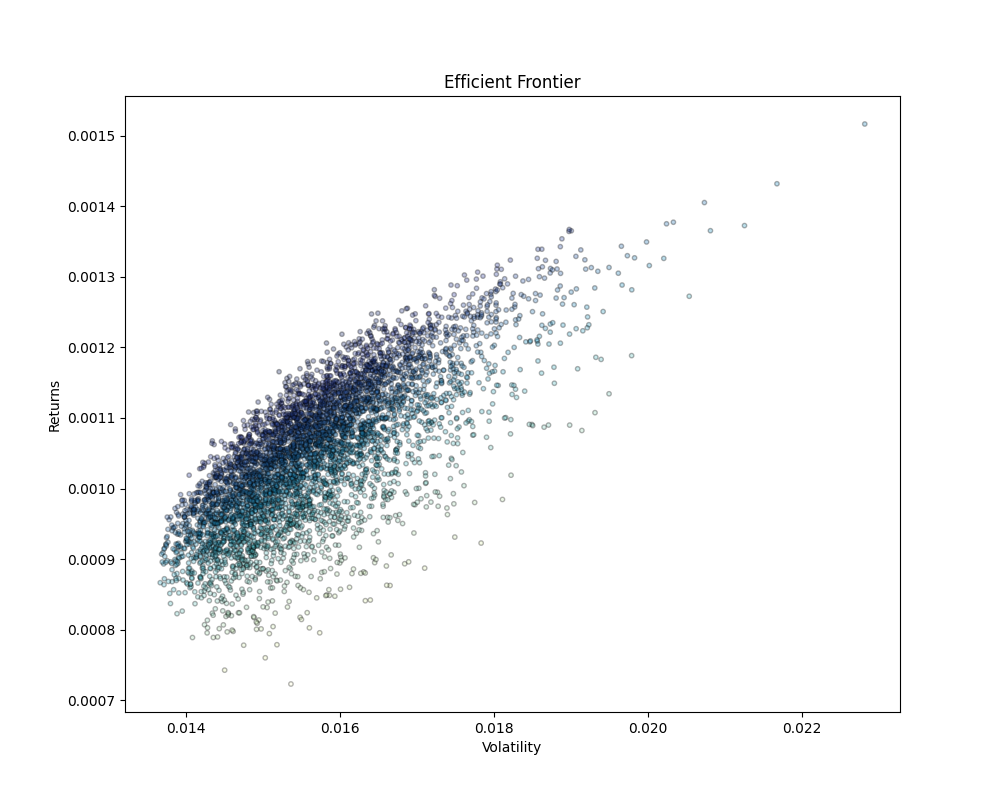
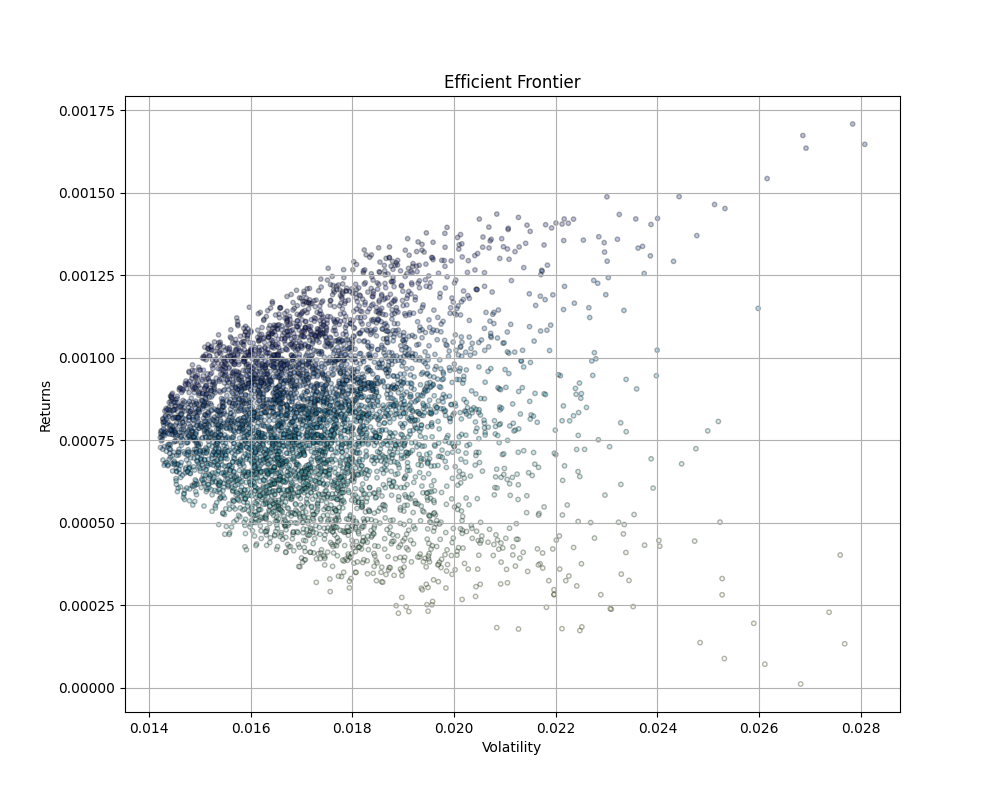
Editting README.md

diff --git a/portfolio/portfolio.py b/portfolio/portfolio.py
@@ -126,11 +126,13 @@ class Portfolio:
         ax.set_xlabel('Volatility')
         ax.set_ylabel('Returns')
         ax.set_title('Efficient Frontier')
+        plt.grid()
         # plt.colorbar(label='Sharpe Ratio')
         plt.show()
 
 
 if __name__ == '__main__':
-    p = Portfolio(['TSLA'])
-    # p.plot_correlation()
-    print(p.calc_sharpe())
+    p = Portfolio(['TSLA', 'AAPL', "AMZN", 'GS', 'BBBY'])
+    # # p.plot_correlation()
+    # print(p.calc_sharpe())
+    p.plot_efficient_frontier()

diff --git a/README.md b/README.md
@@ -1,38 +1,33 @@
-### Black-Scholes PDE
+# Options Class
 
-- Black-Scholes PDE
+### Black Scholes Formulas
+|                   | Formula                                                                                                                                  |
+|-------------------|------------------------------------------------------------------------------------------------------------------------------------------|
+| Black Scholes PDE | $$ \frac{\partial C}{\partial t} + \frac{1}{2}\sigma^2S^2\frac{\partial^2 C}{\partial S^2} + rS\frac{\partial C}{\partial S} - rC = 0 $$ |
+| Call Price        | $$ C = S N\left(d_1\right) - K e^{-rT} N\left(d_2\right)$$                                                                               |
+| Put Price         | $$ P = K e^{-rT} N\left(-d_2\right) - S N\left(-d_1\right) $$                                                                            |
+| d1                | $$ d_1 = \frac{\ln\left(\frac{S}{K}\right) + \left(r + {\sigma}^2/2\right)(T-t)}{\sigma\sqrt{T-t}}$$                                     |
+| d2                | $$ d_2 = d_1 - \sigma \<br/>qrt{T-t} $$                                                                                                  |
+| Delta Call        | $$\Delta_c = \frac{\partial C}{\partial S} = N\left(d_1\right)$$                                                                         |
+| Delta Put         | Text                                                                                                                                     |
+| Gamma             | Text                                                                                                                                     |
+| Vega              | Text                                                                                                                                     |
+| Theta Call        | Text                                                                                                                                     |
+| Theta Put         | Text                                                                                                                                     |
 
-$$
-\frac{\partial C}{\partial t} + \frac{1}{2}\sigma^2S^2\frac{\partial^2 C}{\partial S^2} + rS\frac{\partial C}{\partial S} - rC = 0
-$$
+# Figures
 
-- Call Price
-
-$$
-C = S N\left(d_1\right) - K e^{-rT} N\left(d_2\right)
-$$
-
-- Put Price
-
-$$
-P = K e^{-rT} N\left(-d_2\right) - S N\left(-d_1\right)
-$$
-
-where
-
-$$
-d_1 = \frac{\ln\left(\frac{S}{K}\right) + \left(r + {\sigma}^2/2\right)(T-t)}{\sigma\sqrt{T-t}},
-$$
-
-$$
-d_2 = d_1 - \sigma \sqrt{T-t}.
-$$
-
-### Implied Volatility
+## Implied Volatility
 | ![](figures/options/tsla_iv.png) | ![](figures/options/tsla_term_struct.png) |
 |:---------------------------:|:----------------------------------------------:|
 
 ![](figures/options/tsla_iv_surface.png) 
+
+## Greeks Analysis
+![](figures/options/greeks_vary_time.png)
+
+
+
 
 
 ### Greeks
@@ -92,6 +87,7 @@ $$
 | ![](figures/options/rho_call.png) | ![](figures/options/rho_put.png) |
 |:----------------------------:|:---------------------------:|
 
-![](figures/portfolio/correlation.png) 
-![](figures/portfolio/efficientfrontier.png) 
-![](figures/portfolio/VaR.png) 
+# Portfolio Class
+
+| ![](figures/portfolio/correlation.png)  | ![](figures/portfolio/efficientfrontier.png) |
+|:----------------------------:|:-------------------------------------------:|
